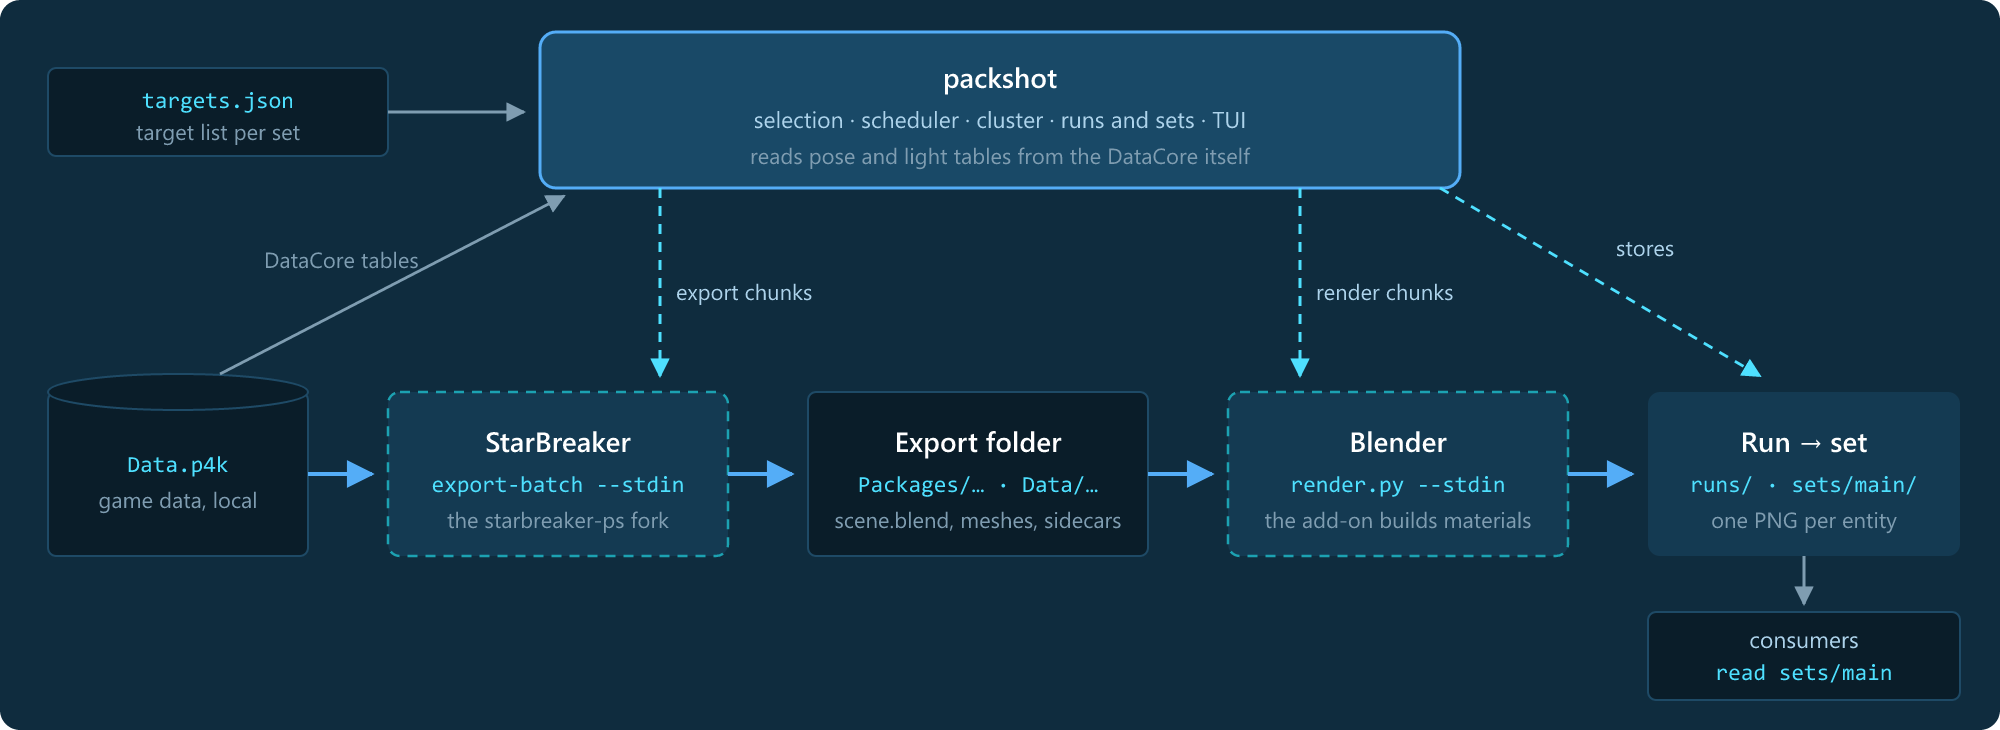
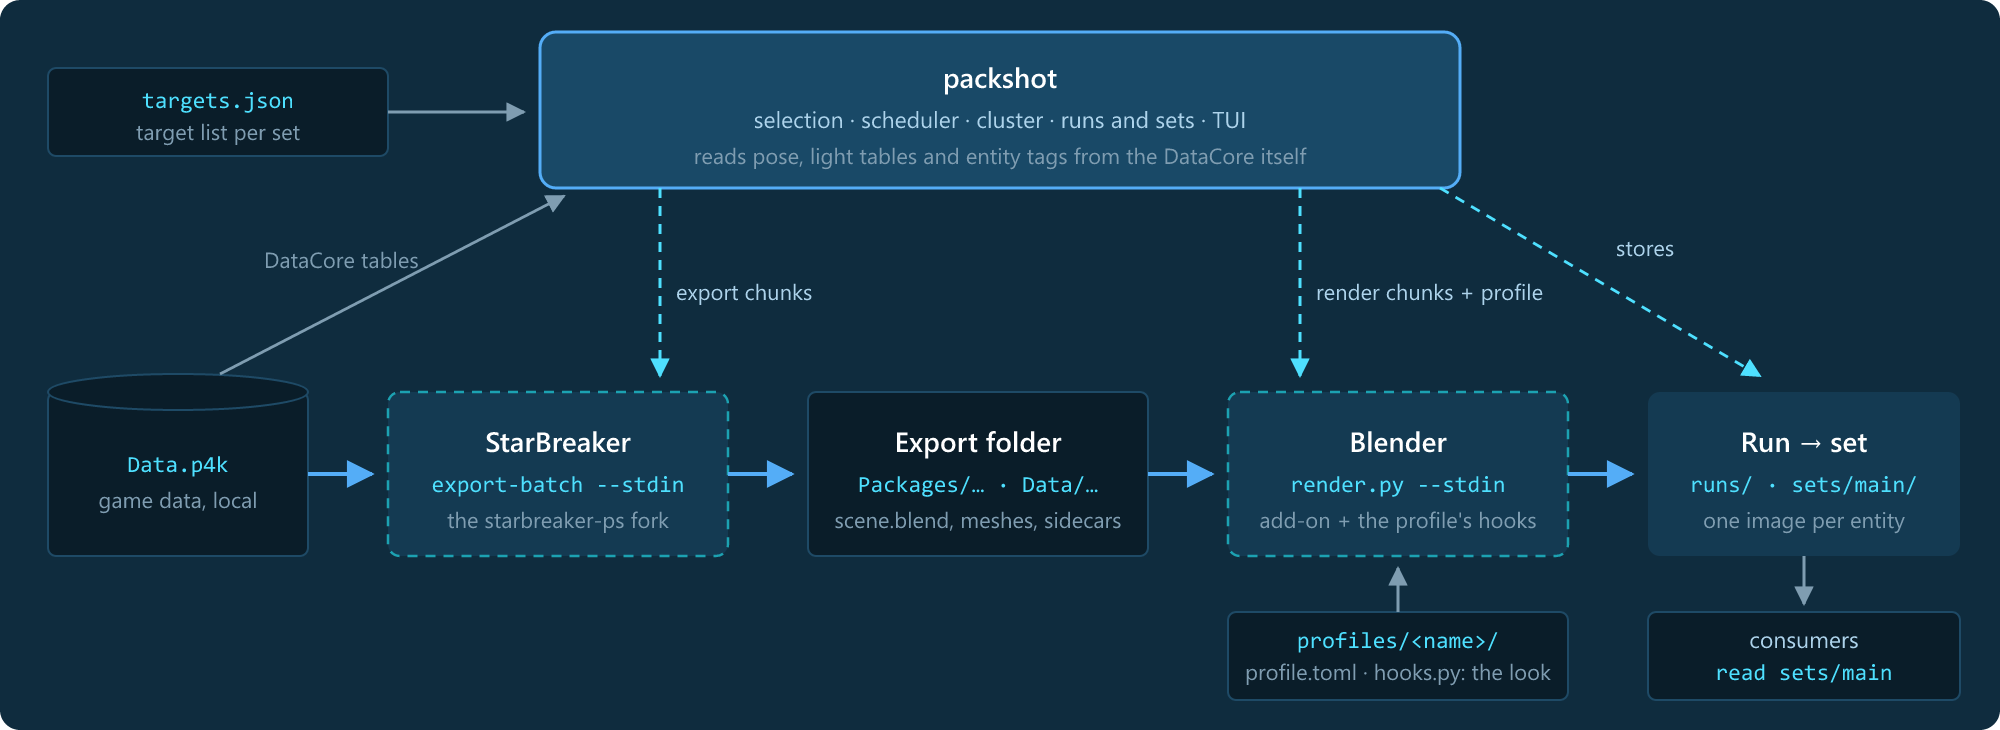
Architecture docs and diagrams with profiles: overview, fetch, lifecycle; store and work layout

diff --git a/docs/ARCHITECTURE.md b/docs/ARCHITECTURE.md
@@ -132,6 +132,8 @@ assessment.json    measured process counts
 targets/
   targets.json     template for target lists
   <name>.json      lists from the picker or by hand (subfolders are listed too)
+profiles/
+  <name>/          own profiles: profile.toml, hooks.py (hide a bundled one of the same name)
 runs/
   2026-11-05_14-30_full/
     <Name> (<class>) <uuid>.png   read-only (.jpg/.exr with another format)
@@ -145,6 +147,7 @@ work/
   cas/             content cache of fetched files
   fetch/           render chunks, linked from cas/
   dcb/             pose and light tables, entity tags
+  profile-cache/   render.py and profiles received for render chunks, by content hash
   assess/          the assessment's test set
 ```
 
@@ -173,18 +176,23 @@ versions stay the same; it sets the default counts and the chunk sizes.
 
 ## Profiles
 
-The look is a **profile** ([ADR 0022](adr/0022-modular-profiles.md), [0041](adr/0041-profile-hooks.md),
-[0042](adr/0042-profile-folder-and-hook-signatures.md)): a folder with `profile.toml` (parameters such as size,
-samples, format) and `hooks.py` (`before_open`, `after_open`, `stage`, `post`). `render.py` is the core; the bundled
-`game-tile` is the default and the base of every profile: its parameters lie under a profile's, its hooks run where a
-profile has none. A profile may bring a `scene` template and its own copy of the StarBreaker add-on (`addon`, ADR
-[0025](adr/0025-material-module.md)), which `render.py` enables instead of the installed one for its whole process; the
-equality check still compares the installed add-on. A run's profile is the starter's: `--profile` (a name: an own one in
-the packshot folder's `profiles/` hides a bundled one; or a folder) or the TUI's start dialog; a start on another node
-sends the profile's folder with it, so the head node need not have it (game-tile and `render.py` are the head node's).
-`--size` and `--format` override its values. The head node sends `render.py`, `game-tile` and the run's profile with
-every render chunk ([ADR 0024](adr/0024-head-node-distributes-profiles.md)); a node keeps them in its work folder by
-content hash and starts a Blender per `render.py` and profile. The run records `render.py`'s hash, the profile (name,
-origin, hash, template), size and format with their source, and the add-on it used. The assessment always measures
-`game-tile` as PNG. Cluster, chunks, runs, sets and assessment do not depend on the
-look.
+The look is a **profile** ([ADRs 0022](adr/0022-modular-profiles.md), [0041](adr/0041-profile-hooks.md),
+[0042](adr/0042-profile-folder-and-hook-signatures.md), [0044](adr/0044-profile-per-run.md)); cluster, chunks, runs,
+sets and assessment do not depend on it.
+
+- **Core and look:** `render.py` is the core: it opens the item, calls the profile's hooks (`before_open`,
+  `after_open`, `stage`, `post`), renders a linear multi-layer EXR and hands it to `post`, which writes the image. The
+  bundled `game-tile` is the default and the base of every profile: its parameters lie under a profile's, its hooks
+  run where a profile has none.
+- **Extras:** a profile may bring a `scene` template and its own copy of the StarBreaker add-on (`addon`,
+  [ADR 0025](adr/0025-material-module.md)), which `render.py` enables instead of the installed one for its whole
+  process; the equality check still compares the installed add-on.
+- **Choice:** per run, by the starter: `--profile` (a name, or a folder) or the TUI's start dialog; a start on another
+  node sends the profile's folder along, so the head node need not have it. `--size` and `--format` override its
+  values.
+- **Distribution:** the head node sends `render.py`, `game-tile` (both its own) and the run's profile with every render
+  chunk ([ADR 0024](adr/0024-head-node-distributes-profiles.md)); a node keeps them in `work/profile-cache/` by content
+  hash and starts a Blender per `render.py` and profile.
+- **Record:** the run records `render.py`'s hash, the profile (name, origin, hash, template), size and format with
+  their source, and the add-on it used; the Sets view shows them in the run's tile. The assessment always measures
+  `game-tile` as PNG.
